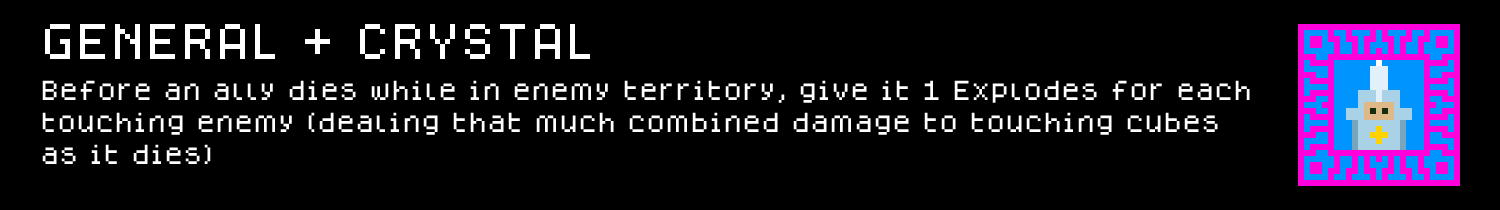
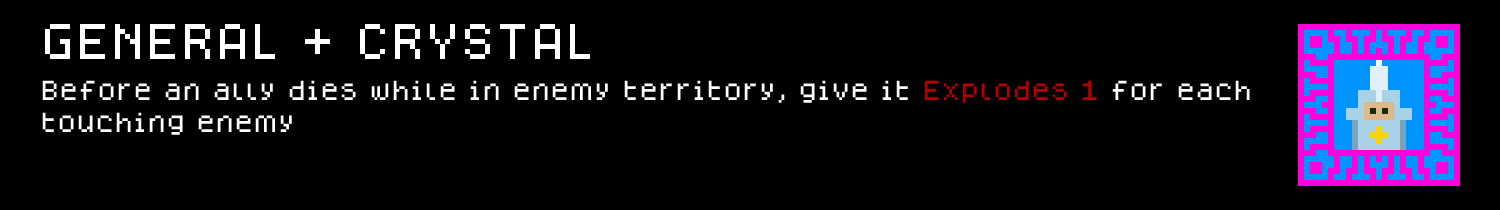
Skill/Design & Readme Preview Generation Updates

Changed region(s): [[0.184, 0.5429, 0.828, 0.6286], [0.6133, 0.3714, 0.736, 0.4857], [0.0307, 0.6857, 0.1533, 0.8]]

diff --git a/.claude/skills/cube-chaos-sprite-art/SKILL.md b/.claude/skills/cube-chaos-sprite-art/SKILL.md
@@ -448,4 +448,8 @@ Key facts baked into that script, established by reverse-engineering the game's 
 - **The engine auto-colors the literal word "mana" blue** in tooltip text (confirmed via a `Player.ManaColour` reference in the compiled UI code) — the only keyword-coloring rule confirmed from data; everything else in `Description:`/`Text:` renders plain white.
 - **An `IsUpgradeFrom:` perk reuses its base perk's icon slot** (it has no sprite of its own — see the "upgrade perk needs no unique sprite" note above) — look up the base perk's icon index by name rather than the upgrade's own (blank) slot index.
 - **`build_perks()` also reads `<ModPrefix>_UpgradePerks.c.txt` if present** (the dedicated sprite-less upgrade file described above) and generates cards for it too, alongside the regular `<ModPrefix>_Perks.c.txt` cards — no separate registration needed, this happens automatically whenever the "Perks" category runs for a mod. Icon resolution **walks the full `IsUpgradeFrom:` chain**, not just one hop: an upgrade can itself be the base of a further upgrade (e.g. `Grand_Finale`-style `Mk3 → Mk2 → <real base perk>`), and stopping at the first hop lands on another blank upgrade slot instead of real art. A first version of this script did stop at one hop and silently produced a blank-icon preview card for a multi-hop upgrade (`General_Perks_Arms_Race_Mk3.png` rendered solid background blue, no icon) with no error — caught by eye, not by a log warning, since this is a documentation-only script bug, not a game-parse issue.
-- **`build_cubes()` falls back to `ModdingInfo.txt`'s own built-in-ability doc strings for any bare `Ability: Name arg1 arg2` line with no custom `Text:` right after it.** A CUBE whose abilities are ALL pre-registered built-ins (e.g. General's `Recruit`: just `ChargeEveryX`/`EveryXMeleeY`/`FreePlacement`/`Climbing`/`Faction_Colours`, zero custom `Ability:` chains) legitimately has zero `Text:` lines per the Text:/Description: requirement — the engine already has that ability's tooltip baked in, so the source file has nothing for this script to read either, and the card previously rendered with an empty ability list (not stale data, a genuine gap in the script, not the mod). The fix: `load_builtin_ability_docs()` parses every `Name TYPE1 TYPE2...     "template with CODE N / STACKING N"` line out of `ModdingInfo.txt` itself (the same doc-string format cited throughout this skill, e.g. `ChargeEveryX TIME     "... Every CODE 1 move forwards "`), and `resolve_builtin_ability_text()` substitutes a bare Ability: line's actual literal arguments into that template (converting `TIME`-typed args from ticks to "N second(s)" phrasing, matching `cube-chaos-rule-text`'s convention, and leaving `STACKING`/other args as literal numbers), then strips the template's `\C R G B .../\CN/\B` color markup down to plain text. `Faction_Colours`-style mod-defined `COMPOUND: ABILITY`s aren't in `ModdingInfo.txt` at all, so this lookup naturally returns nothing for them and they're silently skipped — which is also correct, since a purely cosmetic tag ability shouldn't appear in rule text anyway (see "Never mention purely cosmetic effects" in `cube-chaos-rule-text`). If a future card still shows a suspiciously short/empty ability list, check whether its abilities are all bare built-ins with no custom chain, rather than assuming the sprite/txt data itself is stale.
+- **`build_cubes()` falls back to `ModdingInfo.txt`'s own built-in-ability doc strings for any bare `Ability: Name arg1 arg2` line with no custom `Text:` right after it.** A CUBE whose abilities are ALL pre-registered built-ins (e.g. General's `Recruit`: just `ChargeEveryX`/`EveryXMeleeY`/`FreePlacement`/`Climbing`/`Faction_Colours`, zero custom `Ability:` chains) legitimately has zero `Text:` lines per the Text:/Description: requirement — the engine already has that ability's tooltip baked in, so the source file has nothing for this script to read either, and the card previously rendered with an empty ability list (not stale data, a genuine gap in the script, not the mod). The fix: `load_builtin_ability_docs()` parses every `Name TYPE1 TYPE2...     "template with CODE N / STACKING N"` line out of `ModdingInfo.txt` itself (the same doc-string format cited throughout this skill, e.g. `ChargeEveryX TIME     "... Every CODE 1 move forwards "`), and `resolve_builtin_ability_text()` substitutes a bare Ability: line's actual literal arguments into that template (converting `TIME`-typed args from ticks to "N second(s)" phrasing, matching `cube-chaos-rule-text`'s convention, and leaving `STACKING`/other args as literal numbers). `Faction_Colours`-style mod-defined `COMPOUND: ABILITY`s aren't in `ModdingInfo.txt` at all, so this lookup naturally returns nothing for them and they're silently skipped — which is also correct, since a purely cosmetic tag ability shouldn't appear in rule text anyway (see "Never mention purely cosmetic effects" in `cube-chaos-rule-text`). If a future card still shows a suspiciously short/empty ability list, check whether its abilities are all bare built-ins with no custom chain, rather than assuming the sprite/txt data itself is stale.
+- **`\C<R> <G> <B>`/`\CN`/`\CMANA`/`\B` markup in a `Text:`/`Description:` now renders as actual on-card color, not stripped to plain text (fixed 2026-07-25 — an earlier version of this script rendered the raw escape codes as literal garbage text, e.g. `\C255 38 0 Strength \CN` showing up character-for-character on the card).** `tokenize_colored()` walks the string tracking color-span state and `\B` (suppress the space before the next token), `wrap_colored_tokens()` word-wraps while preserving each word's color (including the `\N`-segment "- " bullet hang-indent, same as before), and `draw_colored_tokens_line()` draws each wrapped line's words in their resolved colors. A bare "mana" still always renders in the engine's own mana-blue regardless of surrounding span color, matching real engine behavior.
+- **`\A <AbilityName> [params]` references (this mod's own keyword idiom, see `cube-chaos-rule-text`) are now resolved inline instead of showing raw `\A Name` text (fixed 2026-07-25).** `load_mod_compound_docs()` scans every `.c.txt` file in the mod for `COMPOUND: ABILITY` blocks, indexing each by name with its own `Text:` template and its parameter types inferred from `Generic*` placeholders in the compound's body (in first-appearance order — `GenericStacking`→`STACKING`, `GenericTime`→`TIME`, everything else→a positional `CODE` slot, mirroring the built-in resolver above). `resolve_inline_abilities()` then expands `\A Name` plus exactly as many trailing whitespace-separated params as that ability declares placeholders for, substituting into its own `Text:` — this must run **before** `humanize()` (which would otherwise turn `Take_Off` into `Take Off` and break the name match) and **before** `tokenize_colored()` (so the resolved ability's own `\C`/`\N`/`\B` markup gets colored too, exactly like the base game's own inline-keyword rendering). An unresolvable name is left as literal `\A Name` text rather than crashing the render, so a genuine gap stays visible on the card instead of failing silently.
+- **A species mod's perk file is conventionally named `<ModPrefix>_Species.c.txt`, not `<ModPrefix>_Perks.c.txt`** (e.g. `Unholy_Species.c.txt`) — `perks_source_basename()` checks for `_Perks.c.txt` first, then falls back to `_Species.c.txt`, so the "Perks" category (output filenames, upgrade-file lookup, everything else) works unmodified either way. If a new mod's perk-family content silently doesn't show up in its own preview cards, check which basename its perk file actually uses.
+- **This script's only source of hard facts is the mod's own `.c.txt`/`.c.png` files — it never reads `GameData/<Mod>/DESIGN.md`, and by convention (`cube-chaos-orchestrator`'s DESIGN.md governance rule) `DESIGN.md` shouldn't be treated as a source of current stats/numbers anyway.** `DESIGN.md` holds design rationale, not restated mana/hp/timer numbers — those are only ever authoritative in the `.c.txt`, since a rebalance there has no reason to also touch `DESIGN.md`, and a copied-in number silently goes stale (real incident: General's ammo-cube mana list drifted twice — see that mod's `DESIGN.md`). If you're ever tempted to pull a "current" stat from `DESIGN.md` prose for a card, description, or anything else, read the `.c.txt` instead.

diff --git a/GameData/Unholy/DESIGN.md b/GameData/Unholy/DESIGN.md
@@ -4,6 +4,12 @@ Mod-specific design/balance rationale that isn't general enough for the shared s
 private session state. Kept in the repo so it travels with the mod. Update this whenever an Unholy
 design or balance decision is made (this is a governance requirement — see root `CLAUDE.md`).
 
+> **Numbers in this file are illustrative, not authoritative — the `.c.txt` is.** Mana costs, hp,
+> timers, and other stat/parameter numbers are deliberately not restated here where a pointer will do; a
+> rebalance edits the `.c.txt` and has no reason to touch this doc, so a copied-in number silently goes
+> stale (real incident: General's ammo-cube mana list drifted twice — see that mod's `DESIGN.md`). Read
+> the *shape* of a design here; read the *current numbers* from the `.c.txt`.
+
 ## Core concept: the 0HP mechanic
 
 The `Unholy` species (`Unholy_Species.c.txt`) intercepts any **allied cube created with 0 hp** —
@@ -48,18 +54,20 @@ territory. `Brimstone` is built on exactly this.
 ## Cube roster & balance anchors
 
 The signature 0HP cubes (`Ritual`, `Brimstone`) live alongside regular demon-themed bodies obtainable
-by any class. Balance is anchored to real base-game analogs, not invented from scratch:
+by any class. Balance is anchored to real base-game analogs, not invented from scratch. **Exact current
+mana/hp for every cube: `Unholy_Cubes.c.txt`** — deliberately not restated below, see the note at the
+top of this file:
 
-| Cube | Mana / HP | 0HP? | Balance anchor / notes |
-|---|---|---|---|
-| `Ritual` | 30 / 0 | yes | Species starter; teleports + explodes (boom 3), spawns Imps |
-| `Cultist` | 5 / 3 | no | Species starter; cheap charging attacker + sacrifice |
-| `Hellhound` | 20 / 3 | no | Fast rusher — `Small_Warrior_Slime` charge speed (30) with a 2/s bite |
-| `Plague_Imp` | 32 / 4 | no | The `Imp` token's kit made obtainable + green; poisons touching non-Imps on death (Imp-body ≈25 + death poison) |
-| `Damned_Soul` | 38 / 4 | no | `Medium_Warrior_Slime` body; Temporary (1 min) + Inspatial, leaves an allied Imp on death (≈25 Imp + ~13 own body) |
-| `Martyr` | 5 / 3 | no | A holy-recolored `Cultist` (same stats) minus the sacrifice; on death buffs touching allies +1 hp |
-| `Brimstone` | 40 / 0 | **yes** | 0HP one-shot; on death spawns a neutral `Molten_Brimstone` (25 hp, burns 1/sec to itself + all touching, plus Acidic 1/sec) at the column top (enemy column for Unholy) |
-| `Plague_Ritual` | 90 / 0 | **yes** | 0HP legendary; on death creates an allied `Plague_Imp` on each empty touching position, each buffed +1 Strength per cube that was touching this at death |
+| Cube | 0HP? | Balance anchor / notes |
+|---|---|---|
+| `Ritual` | yes | Species starter; teleports + explodes, spawns Imps |
+| `Cultist` | no | Species starter; cheap charging attacker + sacrifice |
+| `Hellhound` | no | Fast rusher — priced off the `Small_Warrior_Slime` charge speed with a fast bite |
+| `Plague_Imp` | no | The `Imp` token's kit made obtainable + green; poisons touching non-Imps on death (priced as Imp-body value + death poison) |
+| `Damned_Soul` | no | `Medium_Warrior_Slime` body; Temporary + Inspatial, leaves an allied Imp on death (priced as Imp value + own body) |
+| `Martyr` | no | A holy-recolored `Cultist` (same stats) minus the sacrifice; on death buffs touching allies' hp |
+| `Brimstone` | **yes** | 0HP one-shot; on death spawns a neutral `Molten_Brimstone` (burns itself + all touching, plus Acidic) at the column top (enemy column for Unholy) |
+| `Plague_Ritual` | **yes** | 0HP legendary; on death creates an allied `Plague_Imp` on each empty touching position, each buffed +Strength per cube that was touching this at death |
 
 ### `Plague_Ritual` implementation notes
 
@@ -73,8 +81,9 @@ by any class. Balance is anchored to real base-game analogs, not invented from s
 - Regular charging attackers price off the `Warrior_Slime` ladder: `Small 5/1/1` charge30,
   `Medium 13/4/4` charge60 melee2, `Large 25/5/5` charge90 melee5.
 - **The `Imp` token is treated as ≈25 mana of value** when pricing anything that spawns or embodies it
-  (`Plague_Imp` = Imp-body + death poison → 32; `Damned_Soul` = 25 Imp + its own body → 38). This is a
-  design anchor the user set, not a base-game measured figure.
+  (`Plague_Imp` = Imp-body value + death poison; `Damned_Soul` = Imp value + its own body — see
+  `Unholy_Cubes.c.txt` for the resulting final costs). This is a design anchor the user set, not a
+  base-game measured figure.
 
 ### Starting cubes — deliberately 8, above the base-game 2 convention
 
@@ -95,21 +104,24 @@ Mimics the base-game per-class/species Dragon line (reference: Cryomancer's `Icy
 attach theirs the same way, e.g. `Chaos_Dragon_Egg BelongsTo: Chaos`). Shared egg→baby→adult shape
 (see DJ's `DESIGN.md` for the full breakdown; same across all three mods):
 
-- **Egg** `Hell_Dragon_Egg` (TOKEN 10/7/7) → **Baby** `Baby_Hell_Dragon` (TOKEN 5/15/15,
-  `GrowingUp 40`) → **Adult** `Hell_Dragon` (TOKEN 200/30/30) + `Flying`/`GrowthX 2`/`EveryXMeleeY 120 4`.
+- **Egg** `Hell_Dragon_Egg` → **Baby** `Baby_Hell_Dragon` (`GrowingUp`) → **Adult** `Hell_Dragon` — see
+  `Unholy_Cubes.c.txt` for current stats/abilities.
 - **Grant**: `PERK: Hell_Dragon_Egg BelongsTo: Unholy` (appended to `Unholy_Species.c.txt`);
-  upgrade `PERK: Baby_Hell_Dragon IsUpgradeFrom: Hell_Dragon_Egg 60` in the **new**
-  `Unholy_UpgradePerks.c.txt` (this mod had no upgrade-perks file before — added for this line).
+  upgrade `PERK: Baby_Hell_Dragon IsUpgradeFrom: Hell_Dragon_Egg` in the **new**
+  `Unholy_UpgradePerks.c.txt` (this mod had no upgrade-perks file before — added for this line; see
+  that file for the current forge cost).
 
 **Unholy signature — Hellfire Breath.** Applies the base-game `Burning` **keyword** (0-arg; "after 5s
-deal 1 dmg to every touching cube and this", `ModdingInfo.txt:89`) to enemies — chosen over direct
-damage because it's literally "burning" and spreads between adjacent burning enemies, fitting the
-chaotic-demon theme (cf. the Imp/`Acidic` "hits allies too" choice above). Adult lights **all** enemies
-every 5s (`EveryCubeWhich IsEnemyToCaster Test GainAbility Burning`); baby lights a **single random**
-enemy every 8s (baby→adult escalation, mirroring the other two lines). Rule text references `Burning`
-colour-only (`\C255 106 0`) per the base-keyword convention, no `\A`. Note: because `Burning` is a
-binary keyword (no stack level), re-application frequency only controls how fast newly-created enemies
-get ignited — the 1 dmg/5s burn rate itself is fixed by the keyword.
+deal 1 dmg to every touching cube and this", `ModdingInfo.txt:89`, an immutable base-game constant safe
+to cite directly) to enemies — chosen over direct damage because it's literally "burning" and spreads
+between adjacent burning enemies, fitting the chaotic-demon theme (cf. the Imp/`Acidic` "hits allies
+too" choice above). Adult lights **all** enemies on a periodic tick
+(`EveryCubeWhich IsEnemyToCaster Test GainAbility Burning`); baby lights a **single random** enemy on a
+slower cadence (baby→adult escalation, mirroring the other two lines; current cadence numbers:
+`Unholy_Cubes.c.txt`). Rule text references `Burning` colour-only (`\C255 106 0`) per the base-keyword
+convention, no `\A`. Note: because `Burning` is a binary keyword (no stack level), re-application
+frequency only controls how fast newly-created enemies get ignited — the burn rate itself is fixed by
+the keyword (quoted above).
 
 ## Sprite notes
 

diff --git a/GameData/General/DESIGN.md b/GameData/General/DESIGN.md
@@ -9,10 +9,18 @@ as decisions are revisited.
 
 A **Class** mod themed around a military/army general. Signature material is the **ammo-cube tier
 chain** `Shot → Shell → Bomb → Rocket`: each is both an independently obtainable self-flying missile
-when hand-placed (mana 5 / 8 / 12 / 25) *and* a token spawned by various cubes (`Bunker`, `Artillery`,
-`Rocket_Silo`, `Bombardement`, `Bomber`, etc.), with the `Arms_Race` upgrade chain substituting one tier
-for the next. Files: `General_Cubes`, `General_Perks`, `General_UpgradePerks` (dedicated sprite-less
-upgrade file), `General_Synergies` (`CLASSSPECIES`).
+when hand-placed *and* a token spawned by various cubes (`Bunker`, `Artillery`, `Rocket_Silo`,
+`Bombardement`, `Bomber`, etc.), with the `Arms_Race` upgrade chain substituting one tier for the next.
+Current mana costs: see `General_Cubes.c.txt`. Files: `General_Cubes`, `General_Perks`,
+`General_UpgradePerks` (dedicated sprite-less upgrade file), `General_Synergies` (`CLASSSPECIES`).
+
+> **Numbers in this file are illustrative, not authoritative — the `.c.txt` is.** Mana costs, hp,
+> timers, and other stat/parameter numbers are deliberately not restated here; a rebalance edits the
+> `.c.txt` and has no reason to touch this doc, so a copied-in number silently goes stale. **Real
+> incident:** this exact list — the ammo-cube mana costs — drifted from the real `25` to a stale `17`
+> not once but twice (fixed 2026-07-25, having already been "fixed" once before on 2026-07-22 without
+> the fix sticking anywhere but a memory file). Read the *shape* of a design here; read the *current
+> numbers* from the `.c.txt`.
 
 ## Palette / sprites
 
@@ -51,8 +59,9 @@ upgrade file), `General_Synergies` (`CLASSSPECIES`).
   the now-redundant dynamic grant removed or the new baked ability stripped at that spawn site (e.g.
   `Bomber`'s dropped `Bomb` strips `Flying`/`ChargeEveryX` so it falls straight down). Full rationale in
   `cube-chaos-scripting`.
-- **`General_Inherited_Strength`** (an `Inheritable` `StrengthX 1` compound) is granted by the
-  `General-Remnant` synergy so a placed ally and its whole creation tree deal +1.
+- **`General_Inherited_Strength`** (an `Inheritable` `StrengthX` compound) is granted by the
+  `General-Remnant` synergy so a placed ally and its whole creation tree get a damage buff (current
+  amount: `General_Synergies.c.txt`).
 - Several perks (`Thirst_for_Blood`, `Experienced_Fighter`, `Wartime_Logistics`, `Believer` + upgrades)
   are reworked shapes absorbed from the removed Cubehammer40k mod.
 
@@ -62,23 +71,24 @@ Mimics the base-game per-class Dragon line (reference: Cryomancer's `Icy_Dragon_
 `GameData/Characters/Classes/Cryomancer.c.txt`, cubes in `Characters/2TokenCubes.c.txt`). Shared
 egg→baby→adult shape (see DJ's `DESIGN.md` for the full breakdown; same across all three mods):
 
-- **Egg** `War_Dragon_Egg` (TOKEN 10/7/7) → **Baby** `Baby_War_Dragon` (TOKEN 5/15/15,
-  `GrowingUp 40`) → **Adult** `War_Dragon` (TOKEN 200/**25**/25 — lowest-hp of the three dragons,
-  a deliberate glass-cannon since its bombardment is the strongest).
+- **Egg** `War_Dragon_Egg` → **Baby** `Baby_War_Dragon` (`GrowingUp`) → **Adult** `War_Dragon` —
+  deliberately the **lowest-hp of the three dragons**, a glass-cannon tradeoff since its bombardment is
+  the strongest (see "supercharged Bomber" below). Current stats: `General_Cubes.c.txt`.
 - **Grant**: `PERK: War_Dragon_Egg BelongsTo: General` (`General_Perks`); upgrade
-  `PERK: Baby_War_Dragon IsUpgradeFrom: War_Dragon_Egg 60` (`General_UpgradePerks`, sprite-less).
+  `PERK: Baby_War_Dragon IsUpgradeFrom: War_Dragon_Egg` (`General_UpgradePerks`, sprite-less; see that
+  file for the current forge cost).
 
 **General signature — supercharged Bomber.** Built on this mod's own `Bomber` "fly into enemy
 territory → drop payload" loop, but: **100% drop (no chance roll)**, the payload is a self-flying
 `Rocket` (baby drops `Shell`) instead of a falling Bomb (so it's NOT stripped of `Flying`/`ChargeEveryX`
-— it flies on into the enemy line), and it repositions with `TeleportToPosition` to the top of a random
-enemy column every 12s. Drop fires per column-advance while over an enemy (`AfterThisMoves` + enemy-
-territory + `TheFirstCubeInDirectionFromPositionWhich South … IsEnemyToCaster` — the base Bomber's exact
-condition, at 100%). **`RandomMovementX 120`** (baby 150) is layered on so it drifts organically instead
+— it flies on into the enemy line), and it periodically repositions with `TeleportToPosition` to the
+top of a random enemy column. Drop fires per column-advance while over an enemy (`AfterThisMoves` +
+enemy-territory + `TheFirstCubeInDirectionFromPositionWhich South … IsEnemyToCaster` — the base
+Bomber's exact condition, at 100%). **`RandomMovementX`** is layered on so it drifts organically instead
 of flying a dead-straight mechanical line — a deliberate flavor choice the user asked for. Balanced by a
-**deliberately weak melee** (`EveryXMeleeY 300 2` = 2 dmg/5s, weakest of the three dragons). Charge speed
-`ChargeEveryX 45` (baby 60), slightly faster than a stock Bomber (60). Splash/combined-total balance
-still applies to the dropped Rockets — see the projectile-balance note above.
+**deliberately weak melee, the weakest of the three dragons**, and a charge speed slightly faster than a
+stock Bomber. Current timing/damage numbers: `General_Cubes.c.txt`. Splash/combined-total balance still
+applies to the dropped Rockets — see the projectile-balance note above.
 
 > Open playtest items: the drop cadence (100% × per-move over enemies + fast charge) is intentionally
 > strong per the user; watch for Rocket-flooding in practice and add a `Cooldown` gate if it's too much.

diff --git a/GameData/DJ/DESIGN.md b/GameData/DJ/DESIGN.md
@@ -7,11 +7,17 @@ as decisions are revisited.
 
 ## Core concept
 
-A **Class** mod themed around a DJ / music. Signature material is the **`Note`** — a `0 1 1` `TOKEN`
-homing-projectile cube (`Flying`/`HomingX 120`/`ProjectileX 2`/`DieAfterX 7200`) generated and consumed
+A **Class** mod themed around a DJ / music. Signature material is the **`Note`** — a `TOKEN`
+homing-projectile cube (see `DJ_Cubes.c.txt` for its current stats/abilities) generated and consumed
 by DJ cubes/perks — plus **`Echo`**-style ability duplication and fusion/combination perks. Files:
 `DJ_Cubes`, `DJ_Perks`, `DJ_UpgradePerks` (dedicated sprite-less upgrade file), `DJ_Synergies`
 (`CLASSSPECIES`), `DJ_Consumables`, `DJ_Curses`.
+
+> **Numbers in this file are illustrative, not authoritative — the `.c.txt` is.** Mana costs, hp,
+> timers, and other stat/parameter numbers are deliberately not restated here; a rebalance edits the
+> `.c.txt` and has no reason to touch this doc, so a copied-in number silently goes stale (real incident:
+> General's ammo-cube mana list drifted out of sync twice — see that mod's `DESIGN.md` history). Read
+> the *shape* of a design here; read the *current numbers* from the `.c.txt`.
 
 ## Palette / sprites
 
@@ -22,8 +28,8 @@ by DJ cubes/perks — plus **`Echo`**-style ability duplication and fusion/combi
 
 ## Deliberate design decisions
 
-- **`Note` is a `0 1 1` homing projectile, not a zero-ability `NORANDOM` donor tag** (that was an
-  earlier design, since replaced — see `DJ_Cubes.c.txt`). It carries no `NORANDOM` tag, so it's a
+- **`Note` is a homing projectile, not a zero-ability `NORANDOM` donor tag** (that was an
+  earlier design, since replaced — see `DJ_Cubes.c.txt` for current stats). It carries no `NORANDOM` tag, so it's a
   normal (if usually unwanted) ability-donor candidate at any random-ability-scan site; nothing in this
   mod currently relies on it being excluded. The `Bass_Dragon` line below leans on its current homing
   behavior: spawned Notes fly off and home enemies.
@@ -41,22 +47,24 @@ Mimics the base-game per-class Dragon line (reference: Cryomancer's `Icy_Dragon_
 `GameData/Characters/Classes/Cryomancer.c.txt`, cubes in `Characters/2TokenCubes.c.txt`). The 3-stage
 shape is shared by all three mods in this repo (General's `War_Dragon`, Unholy's `Hell_Dragon`):
 
-- **Egg** `Bass_Dragon_Egg` (TOKEN 10/7/7, `ArmorX 1`): base compound `Dragon_Egg CubeConstant <baby>`
-  — after 4 min on the field it dies and drops the baby into hand.
-- **Baby** `Baby_Bass_Dragon` (TOKEN 5/15/15): `GrowingUp 40 CubeConstant <adult>` + `GrowthX 5` +
-  `RegenerationX 2` + `WorthXMore 25`. Grows maxhp past 40 (~5 min) then becomes the adult
-  (egg 4 min + baby ~5 min ≈ full dragon by ~9 min — deliberately a late-game payoff, matching base).
-- **Adult** `Bass_Dragon` (TOKEN 200/30/30) + `Flying`/`GrowthX 2`/`EveryXMeleeY 120 4`.
+- **Egg** `Bass_Dragon_Egg`: base compound `Dragon_Egg CubeConstant <baby>` — hatches after a fixed
+  time on the field (the shared base-game `Dragon_Egg` compound's own built-in constant, ~4 min across
+  all three mods' dragon lines) and drops the baby into hand.
+- **Baby** `Baby_Bass_Dragon`: `GrowingUp <threshold> CubeConstant <adult>` plus growth/regen — grows
+  into the adult once its maxhp climbs past the threshold, deliberately timed as a late-game payoff,
+  matching the base game's own dragon lines. Current threshold/growth/regen numbers: `DJ_Cubes.c.txt`.
+- **Adult** `Bass_Dragon` — see `DJ_Cubes.c.txt` for current stats/abilities.
 - **Grant**: `PERK: Bass_Dragon_Egg BelongsTo: DJ` (reward perk, `DJ_Perks`) adds the egg at battle
-  start; `PERK: Baby_Bass_Dragon IsUpgradeFrom: Bass_Dragon_Egg 60` (`DJ_UpgradePerks`, sprite-less)
-  starts you with the baby, forge cost 60.
+  start; `PERK: Baby_Bass_Dragon IsUpgradeFrom: Bass_Dragon_Egg` (`DJ_UpgradePerks`, sprite-less)
+  starts you with the baby — see that file for the current forge cost.
 
-**DJ signature — Note artillery.** Baby spawns 1 Note/10s (North). Adult spawns a Note on each of the
-4 touching positions every 6s (`North`/`South`/`Forwards`/`Backwards` — sideways two are faction-
-relative so an AI-owned dragon still fires the right way) **and** teleports to the top of a random
-enemy's column every 15s (`SetStorage ARandomEnemy` → `TeleportToPosition TopPositionAboveCube Storage`;
-teleport is NOT default on base dragons, built explicitly). Because `Note` is a homing projectile
-(see above), each spawned Note flies off to strike enemies — the adult is a 4-way music battery.
+**DJ signature — Note artillery.** The baby periodically spawns a Note to its north; the adult spawns a
+Note on each of the 4 touching positions on a faster cadence (`North`/`South`/`Forwards`/`Backwards` —
+sideways two are faction-relative so an AI-owned dragon still fires the right way) **and** periodically
+teleports to the top of a random enemy's column (`SetStorage ARandomEnemy` →
+`TeleportToPosition TopPositionAboveCube Storage`; teleport is NOT default on base dragons, built
+explicitly). Current cadence numbers: `DJ_Cubes.c.txt`. Because `Note` is a homing projectile (see
+above), each spawned Note flies off to strike enemies — the adult is a multi-way music battery.
 
 ## Docs
 

diff --git a/.claude/skills/cube-chaos-scripting/references/gotchas-grepped.md b/.claude/skills/cube-chaos-scripting/references/gotchas-grepped.md
@@ -19,4 +19,6 @@ conversion (TOKEN→IDENT).
   - **Self-propelled missile** (place it anywhere in your own territory, it flies to the enemy under its own power): `Ability: Flying` + `Ability: ChargeEveryX <N>` + `AiPlacementRule: AiMissile`. This is the real base-game `Magic_Missile`/`Scrappy_Missile`/`Missile` shape — `Flying` so gravity doesn't pull it down while it charges forward, `ChargeEveryX` for the actual forward movement, `AiMissile` (a real, dedicated `AiPlacementRule` token) so the AI knows to place it like ranged ammo rather than a frontline body.
   - **Drop-in-place munition** (place it directly on/near the target, no self-movement, gravity does the rest): `Ability: FreePlacement` alone, no `Flying`/`ChargeEveryX`. `FreePlacement` only bypasses the normal placement-support restriction (see `references/targeting-movement-board.md`'s Gravity section) — the cube still falls straight down via gravity from wherever it's dropped, which is the whole point for something meant to land exactly on a target rather than travel toward one.
   Don't default to `FreePlacement` just because a cube is "droppable" in casual phrasing — confirm which of these two the requester actually means, since they produce very different placement/AI behavior and (per `references/authoring-and-inheritance.md`'s substitution-cascade section) very different compatibility obligations with anything that already spawns that cube via an `Ability:` chain.
+- **`StrengthX` is `GenericStacking`-based** (`Base_Core/1Compounds.c.txt:748-751`: `StrengthX / BeforeThisDealsDamage NegateX Minus GenericStacking`), confirming a real, working `GainAbilityStacking` call against it does what it looks like. The Unholy mod's `Plague_Ritual` (`Unholy_Cubes.c.txt`) uses `GainAbilityStacking StrengthX 0 AmountOfCubesWhich ...` to grant each spawned `Plague_Imp` a `Strength` equal to its touching-cube count — per the `GenericStacking`-vs-`GenericConstant` distinction above, this is the sound case (unlike trying the same trick on a `GenericConstant` ability like `ExplodesX`), so the perk's rule text ("each gaining 1 Strength per touching cube") is accurate as written.
+- **`Secret Action` (`ModdingInfo.txt:267`) has zero confirmed working precedent anywhere** — not in any base-game file, and (as of 2026-07-25) no longer in any mod either: the General mod's `General-Undead` synergy perk was the only user in this whole repo, wrapping `GainAbility Undead` on a spawned Parachute, and it was removed on user instruction ("Undead does not need to be secret there") rather than ever being verified. What it actually does (hide the ability from the target's own tooltip? something else entirely?) is still unknown. If a future ask specifically wants an ability granted-but-hidden-from-tooltip, don't reach for `Secret` on the assumption it does that — there's no evidence either way, so treat it as genuinely untested DSL surface and verify via a real test-launch + tooltip check before relying on it. `Silent Action` (do it without triggering any *other* ability) is the well-documented, well-precedented wrapper for a different purpose — don't confuse the two.
 - **Index-based ability iteration, for when you need to compare/dedupe abilities by value rather than act on each independently:** combine a counted `SetVariable`+`Until`+`ChangeVariable` loop (see `Base_Core/1Compounds.c.txt`'s `AddDepthRow` for the idiom) with `NthAbilityOfCubeWhich DOUBLE CUBE BOOLEAN` (1-indexed) instead of `EveryAbilityOfCubeWhich`, specifically because `NthAbilityOfCubeWhich`'s index argument is a plain `DOUBLE` with no ability-typed `Test`/`Target` binding of its own — so it can be called *inside* a nested `IsSameAbility`/`AmountOfAbilitiesOfCubeWhich` predicate without the inner search's own `Test` shadowing the ability you're trying to reference (the exact cross-scope problem `Storage` solves for `CUBE`, but there is no ability-typed equivalent of `Storage`). Iterate the index **downward** (`AmountOfAbilitiesOfCube` down to `1`, stopping once `IsSmaller <idx> 1`) when the loop body removes abilities — removing at the current index only shifts indices *above* it (already visited), never the ones still to come, so a descending walk stays correct without needing to re-snapshot the list. Real usage, the DJ mod's `Added_Variance` perk (`DJ/DJ_Perks.c.txt`): for each index, check `IsLarger (AmountOfAbilitiesOfCubeWhich Target (IsSameAbility Test (NthAbilityOfCubeWhich <idx> Target True))) DoubleConstant 1` and `RemoveAbility (NthAbilityOfCubeWhich <idx> Target True)` if true — self-correcting even though every duplicate instance re-triggers the same check, since by the time a later (lower-index) duplicate is reached the count has already dropped to 1 and the condition no longer fires.

diff --git a/.claude/skills/cube-chaos-rule-text/SKILL.md b/.claude/skills/cube-chaos-rule-text/SKILL.md
@@ -65,7 +65,9 @@ Grepping every escape sequence across `Base_Core/`, `Main/` and `Extra_Mechanics
 
 The reason is that **`\A` renders the *defining* file's text, so a base-game keyword always arrives in base-game styling** — coloured header plus a normal-brightness explanation (`ModdingInfo.txt:227`, `StrengthX` → `"\C255 38 0 Strength STACKING 1 \B : \CN This deals \C255 38 0 STACKING 1 \CN more damage"`). It cannot be restyled from a mod, because its text lives in `Base_Core`/`ModdingInfo.txt` and base-game files are never edited. Using `\A` on base keywords therefore produced tooltips where our keywords dimmed their explanation and base ones didn't — the user noticed this immediately on the General class perk and chose colour-only for base keywords rather than either the mismatch or hand-copying base text.
 
-Colour-only also keeps our descriptions short: the player can hover the ability on the cube itself for the detail. Grab the exact colour and display name from the ability's own entry in `ModdingInfo.txt` rather than guessing — real values include `StrengthX` `255 38 0` "Strength N", `GrowthX` `0 127 14` "Growth N", `ChargeEveryX` `155 238 255` "Charging", `Swarm` `255 0 220` "Swarm", `Flying` `109 209 228` "Flying", `Burning` `255 106 0` "Burning" (`ModdingInfo.txt:89`, a 0-arg keyword — write `\C255 106 0 Burning \CN`, no number). **Don't append a hand-written parenthetical explaining a base keyword** — that's the duplication this rule exists to avoid.
+Colour-only also keeps our descriptions short: the player can hover the ability on the cube itself for the detail. Grab the exact colour and display name from the ability's own entry in `ModdingInfo.txt` rather than guessing — real values include `StrengthX` `255 38 0` "Strength N", `GrowthX` `0 127 14` "Growth N", `ChargeEveryX` `155 238 255` "Charging", `Swarm` `255 0 220` "Swarm", `Flying` `109 209 228` "Flying", `Burning` `255 106 0` "Burning" (`ModdingInfo.txt:89`, a 0-arg keyword — write `\C255 106 0 Burning \CN`, no number), `RetaliateX` `198 27 33` "Retaliate CODE 1" (`ModdingInfo.txt:209`), `ExplodesX` `182 0 0` "Explodes CODE 1" (`ModdingInfo.txt:143`), `FervorX` `255 38 0` "Fervor STACKING 1" (`ModdingInfo.txt:146`), `SplinterX` `197 204 112` "Splinter STACKING 1" (`ModdingInfo.txt:224`), `DoubleTimeX` `197 204 112` "Double Time" (`ModdingInfo.txt:110`), `Undead` `0 50 0` "Undead" (`ModdingInfo.txt:239`, a 0-arg keyword), `ProjectileX` `250 150 150` "Projectile CODE 1" (`ModdingInfo.txt:201`). **Don't append a hand-written parenthetical explaining a base keyword** — that's the duplication this rule exists to avoid.
+
+**Real incident confirming this matters, found on a full DJ/General/Unholy audit (2026-07-25):** five General-mod perks predating this rule's discovery still had the violation — `General-Dwarf`/`General-Crystal`/`Believer`/`Blinding_Faith` hand-wrote parentheticals duplicating `RetaliateX`/`ExplodesX`/`FervorX`/`SplinterX`'s own tooltips instead of colour-only, and `General-Undead`/`DJ-Undead` referenced `Undead`/`ProjectileX` as plain lowercase words with no colour at all. All fixed to colour-only in the same pass. **When auditing existing `Text:`/`Description:` for this**, grep the mod for lowercase mentions of any ability name that has a `ModdingInfo.txt` entry (a parenthetical immediately after a keyword name, or the keyword name in plain prose with no `\C` before it, are both the tell) rather than assuming only new content needs checking — these three perks had shipped and gone unnoticed for multiple sessions.
 
 ### Why `\A` for our own keywords
 

diff --git a/.claude/skills/cube-chaos-orchestrator/SKILL.md b/.claude/skills/cube-chaos-orchestrator/SKILL.md
@@ -56,6 +56,8 @@ Every path ends the same way: **`cube-chaos-mod-setup`'s launch-and-check-`Log.t
 
 **Also part of "done": any mod-specific design/balance decision made this session is recorded in `GameData/<Mod>/DESIGN.md`** (create it if the mod doesn't have one yet). This is a governance rule from `CLAUDE.md` — the core concept, deliberate design choices, per-cube/perk balance anchors, and palette/sprite conventions belong there so the next session inherits them instead of re-deriving them. It's the mod-scoped counterpart to the skill-writeback rule (Step D): skills hold *general* modding knowledge, `DESIGN.md` holds *this mod's* specific decisions.
 
+**`DESIGN.md` holds rationale, not hard numeric facts.** Don't restate a cube/perk's exact mana cost, hp, or ability-parameter numbers (timers, damage amounts, thresholds) in `DESIGN.md` prose just because it's convenient to read them there — those live in the mod's own `.c.txt` as the actual source of truth, and a copied-in number has no reason to get updated when the real one is rebalanced, so it silently drifts. **Real incident (2026-07-25): General's ammo-cube mana-cost list drifted from the real value to a stale one, got "fixed," and drifted right back** because the fix landed in a memory file, not in `DESIGN.md` itself, and nothing forced the two to stay in sync. When a number matters to the point being made, point at the file instead of restating it — `"see General_Cubes.c.txt for current stats"` — and keep only the reasoning that isn't otherwise recoverable (why a choice was made, a pricing anchor/formula, a deliberate tradeoff). A number that's stable because it's an immutable base-game constant we never edit (e.g. a shared compound's hardcoded timing) is a legitimate exception and safe to cite directly.
+
 **Exception: a pure sprite-pixel edit or a pure `Text:`/`Description:` wording edit needs no test-launch.** If the session's only changes are (a) repainting pixels inside an already-correctly-sized/sliced sheet (no resize, no new/removed tile, no slot-count change) and/or (b) rewording the *content* of an existing `Text:`/`Description:` field while leaving its structure intact (same field keyword, same trailing `End`, no argument/token change) — there is no DSL parse path or mechanical logic for either edit to break. The launch loop exists to catch parse errors and silent logic bugs in `Ability:`/`WorldAbility:` chains and sheet-slot mismatches; neither of those exists for a content-only pixel or wording change. Still launch-and-check whenever the same edit touches sheet dimensions/slot count, or any `Ability:`/trigger-chain/argument-count territory, even if it also happens to touch a sprite or some text.
 
 **After that passes, check whether this mod already has a `GameData/<Mod>/README.md`.** If it does, regenerate its preview cards: re-run `python3 .claude/skills/cube-chaos-sprite-art/scripts/render_preview_cards.py` (from the repo root) whenever content or sprites changed this session, so `GameData/<Mod>/Preview/` never drifts from what's actually in the mod. Skip this only if the session made no content/sprite changes at all (e.g. a pure DSL refactor with no visible/textual change).

diff --git a/.claude/skills/cube-chaos-orchestrator/workflows/content-dragon-line.md b/.claude/skills/cube-chaos-orchestrator/workflows/content-dragon-line.md
@@ -101,7 +101,7 @@ End
 Notes on these blocks (all base-verified):
 - **`ReferenceCube: <Name>`** is a real `PERK:` field — lists related cubes in the perk's tooltip so
   the player can preview the whole evolution chain from the egg perk.
-- Egg perk uses **`FreeCopy`**, baby upgrade uses **`CopyOfCube`** — mirror the base game exactly.
+- Egg perk uses **`FreeCopy`**, baby upgrade uses **`CopyOfCube`** — mirror the base game exactly. **Evidence (2026-07-25 audit):** every base-game Egg perk uses `FreeCopy`, no exceptions found. The baby upgrade is genuinely split in the base game itself — `Characters/Classes/ZUpgradeClassPerks.c.txt`'s 10 `Baby_X_Dragon` perks are 6 `FreeCopy` (Temporal/Iron/Holy/Explosive/Invasive/Anger) vs. 4 `CopyOfCube` (Magic/Icy/Programmed/Robot), and all 10 underlying `Baby_X_Dragon` cubes cost the identical 5 mana regardless of which function grants them — so this isn't a cost-dependent choice, it's a real inconsistency upstream that the base game itself ships with, both variants described identically as "Start with a free ... in your hand." This repo's own 3 lines (DJ/General/Unholy) all use `CopyOfCube` for the baby upgrade, which matches the `CopyOfCube`-using minority of real dragons exactly — **not a bug**, confirmed when a full-mod audit first flagged it as one. Don't "fix" these to `FreeCopy` without asking first; if a future session wants every line as reliably free instead of matching this specific base-game inconsistency, that's a deliberate call for the user, not a correction.
 - The `AtTheStartOfTheBattle Both AddCubeToHandOfThis <copy> RemoveThisAbility` shape is the general
   "start each battle with a free X in hand" idiom (see `cube-chaos-scripting`).
 - Put `Description:` immediately **after** the `Ability:` (single-ability perk rule, `cube-chaos-scripting`).
